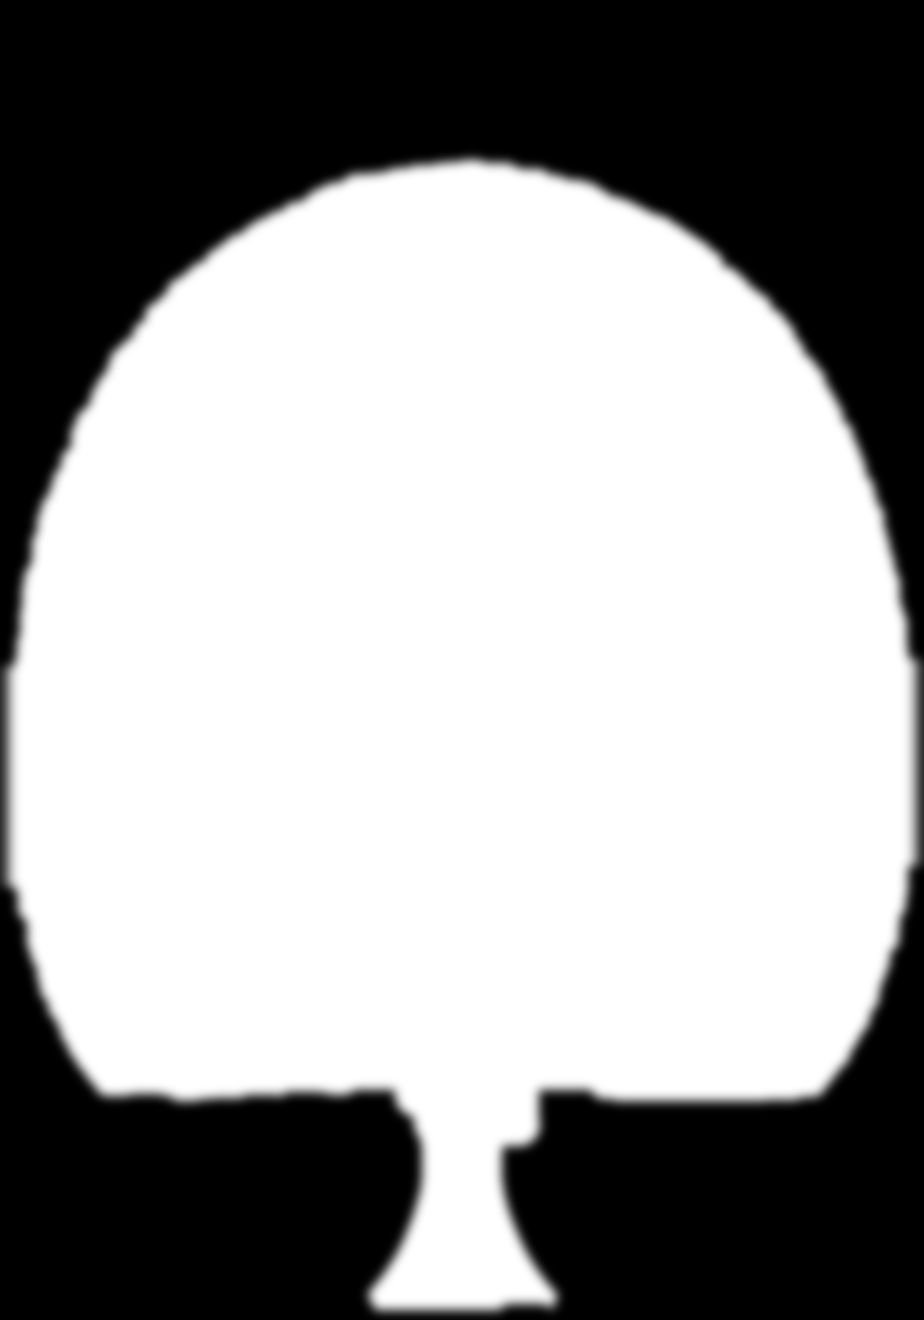
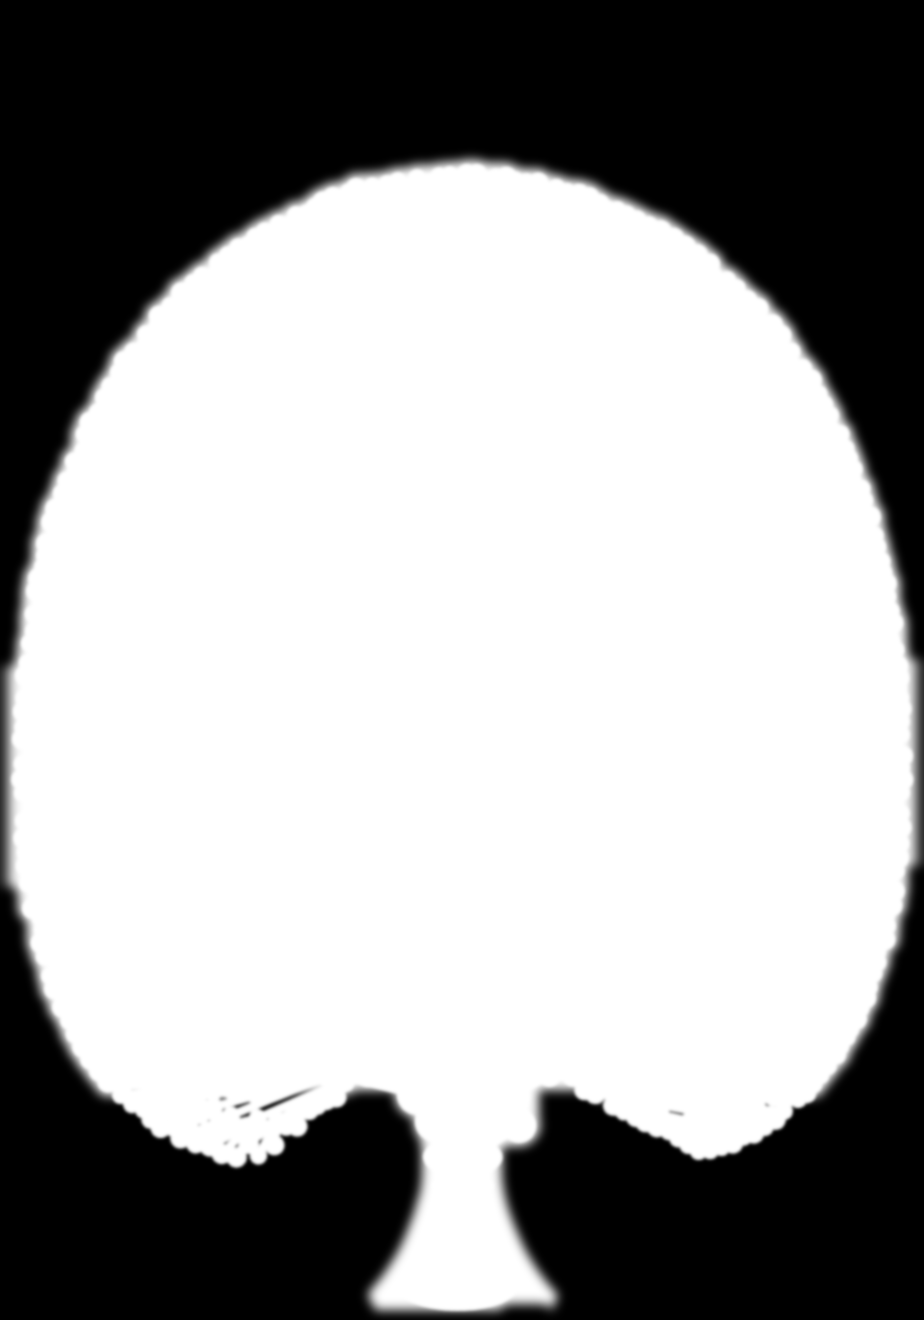
إصلاح: الضغط على الوردة المرتفعة يختار صاحبها، والعروق السفلية ترجع للتاج

diff --git a/v7/index.html b/v7/index.html
@@ -1755,7 +1755,8 @@ function buildGrid(){GRID=new Map();for(const p of Object.values(people)){const 
 function gridHit(wx,wy){if(!GRID)buildGrid();let best=null,bd=1.2;const cx=wx>>8,cy=wy>>8;
   for(let i=-2;i<=2;i++)for(let j=-2;j<=2;j++){const l=GRID.get((cx+i)+','+(cy+j));if(!l)continue;for(const id of l){const q=posOf(id),rg=ringOf(id),d=Math.hypot((q.x-wx)/rg.rx,(q.y-wy)/rg.ry);if(d<bd){bd=d;best=id;}}}return best;}
 function hit(sx,sy){const bn=BL&&(gl?BL.snodes:BL.nodes);if(bn&&!placing){let b=null,bd=1e9;for(const o of bn){if(o.photo||o.age)continue;const d=Math.hypot(sx-o.x,sy-o.y);if(d<Math.max(o.r,MOBILE?22:0)&&d-o.r<bd){bd=d-o.r;b=o;}}if(b)return b.id;}   // الأقرب، وباللمس هدف ٤٤px على الأقل
-  if(BL)return null;if(inBrowse())for(const r of LHIT)if(sx>=r[0]&&sx<=r[2]&&sy>=r[1]&&sy<=r[3])return r[4];const w=s2w(sx,sy);return gridHit(w.x,w.y);}
+  if(BL)return null;if(inBrowse())for(const id of[HOV,SEL]){const h=id&&POPT[id]&&POPT[id].hit;if(h&&(Math.hypot(sx-h[0],sy-h[1])<=h[2]+4||Math.hypot(sx-h[3],sy-h[4])<=h[5]))return id;}
+  if(inBrowse())for(const r of LHIT)if(sx>=r[0]&&sx<=r[2]&&sy>=r[1]&&sy<=r[3])return r[4];const w=s2w(sx,sy);return gridHit(w.x,w.y);}
 // صبغة خفيفة لكل فرع (تُرسم مرة وحدة)
 function buildTint(){const c=document.createElement('canvas');c.width=Math.ceil(PW/8);c.height=Math.ceil(PH/8);const g=c.getContext('2d');
   for(const p of Object.values(people)){const b=branchOf(p.id);if(!b||!p.pos)continue;const x=p.pos[0]/8,y=p.pos[1]/8,gr=g.createRadialGradient(x,y,0,x,y,26);gr.addColorStop(0,`rgba(${BR[b].col},.10)`);gr.addColorStop(1,`rgba(${BR[b].col},0)`);g.fillStyle=gr;g.fillRect(x-26,y-26,52,52);}
@@ -1777,6 +1778,7 @@ function nodeSprite(id){const sp=PSP.get(id);if(sp&&sp.ok)return sp.c;const q=po
 function popNode(g,id,S,rg,s,now){const c=nodeSprite(id);if(!c){dirty=true;return false;}if(!POPT[id]||POPT[id].gone)POPT[id]={t:now};for(const k in POPT)if(k!=id&&+k!==SEL&&+k!==HOV)delete POPT[k];
   const t=Math.min(1,(now-POPT[id].t)/520),e=t<1?1+2.2*Math.pow(t-1,3)+1.2*Math.pow(t-1,2):1;if(t<1)dirty=true;   // ارتداد للأعلى
   const base=Math.max(rg.rx,rg.ry)*s,tr=Math.max(base*1.9,VW<=760?34:44),rr=base+(tr-base)*e,lift=(rr*.9+8)*e,up=S.y-(rr*.9+8)-tr>=(VW<=760?CH.t:64)+6,cx=S.x,cy=up?S.y-lift:S.y+lift,k=rr/(c.width/2*0.893);   // قريب من الشريط العلوي: يطلع لتحت
+  POPT[id].hit=[cx,cy,rr,S.x,S.y,Math.max(base,10)];   // الوردة المرتفعة تغطي جيرانها: الضغط عليها يختار صاحبها هو
   g.save();g.fillStyle=`rgba(40,25,5,${.28*e})`;g.beginPath();g.ellipse(S.x,S.y+base*.4,rr*.8,rr*.22,0,0,7);g.fill();   // ظل على الشجرة
   g.strokeStyle=`rgba(255,214,90,${.8*e})`;g.lineWidth=2;g.beginPath();g.moveTo(S.x,S.y);g.lineTo(cx,cy+(up?rr:-rr)*.9);g.stroke();
   g.shadowColor='rgba(30,15,0,.55)';g.shadowBlur=18*e;g.shadowOffsetY=8*e;g.drawImage(c,cx-c.width/2*k,cy-c.height/2*k,c.width*k,c.height*k);g.shadowColor='transparent';

diff --git a/v7/sw.js b/v7/sw.js
@@ -1,5 +1,5 @@
 // خدمة العمل بدون إنترنت: الواجهة من الشبكة أولاً، والصور والبلاطات من الذاكرة أولاً
-const C='ajlan-v7-4',SHELL=['./','./index.html','./nasab.html','./people_all.json','./manifest.webmanifest','./bg/bg-scene.jpg','./bg/crown-mask.png','./bg/node-mask.png','./bg/logo.png','../v4/tree-small.jpg'];
+const C='ajlan-v7-5',SHELL=['./','./index.html','./nasab.html','./people_all.json','./manifest.webmanifest','./bg/bg-scene.jpg','./bg/crown-mask.png','./bg/node-mask.png','./bg/logo.png','../v4/tree-small.jpg'];
 self.addEventListener('install',e=>{e.waitUntil(caches.open(C).then(c=>c.addAll(SHELL)).then(()=>self.skipWaiting()));});
 self.addEventListener('activate',e=>{e.waitUntil(caches.keys().then(ks=>Promise.all(ks.filter(k=>k!==C).map(k=>caches.delete(k)))).then(()=>self.clients.claim()));});
 self.addEventListener('fetch',e=>{const r=e.request;if(r.method!=='GET')return;const u=new URL(r.url);
